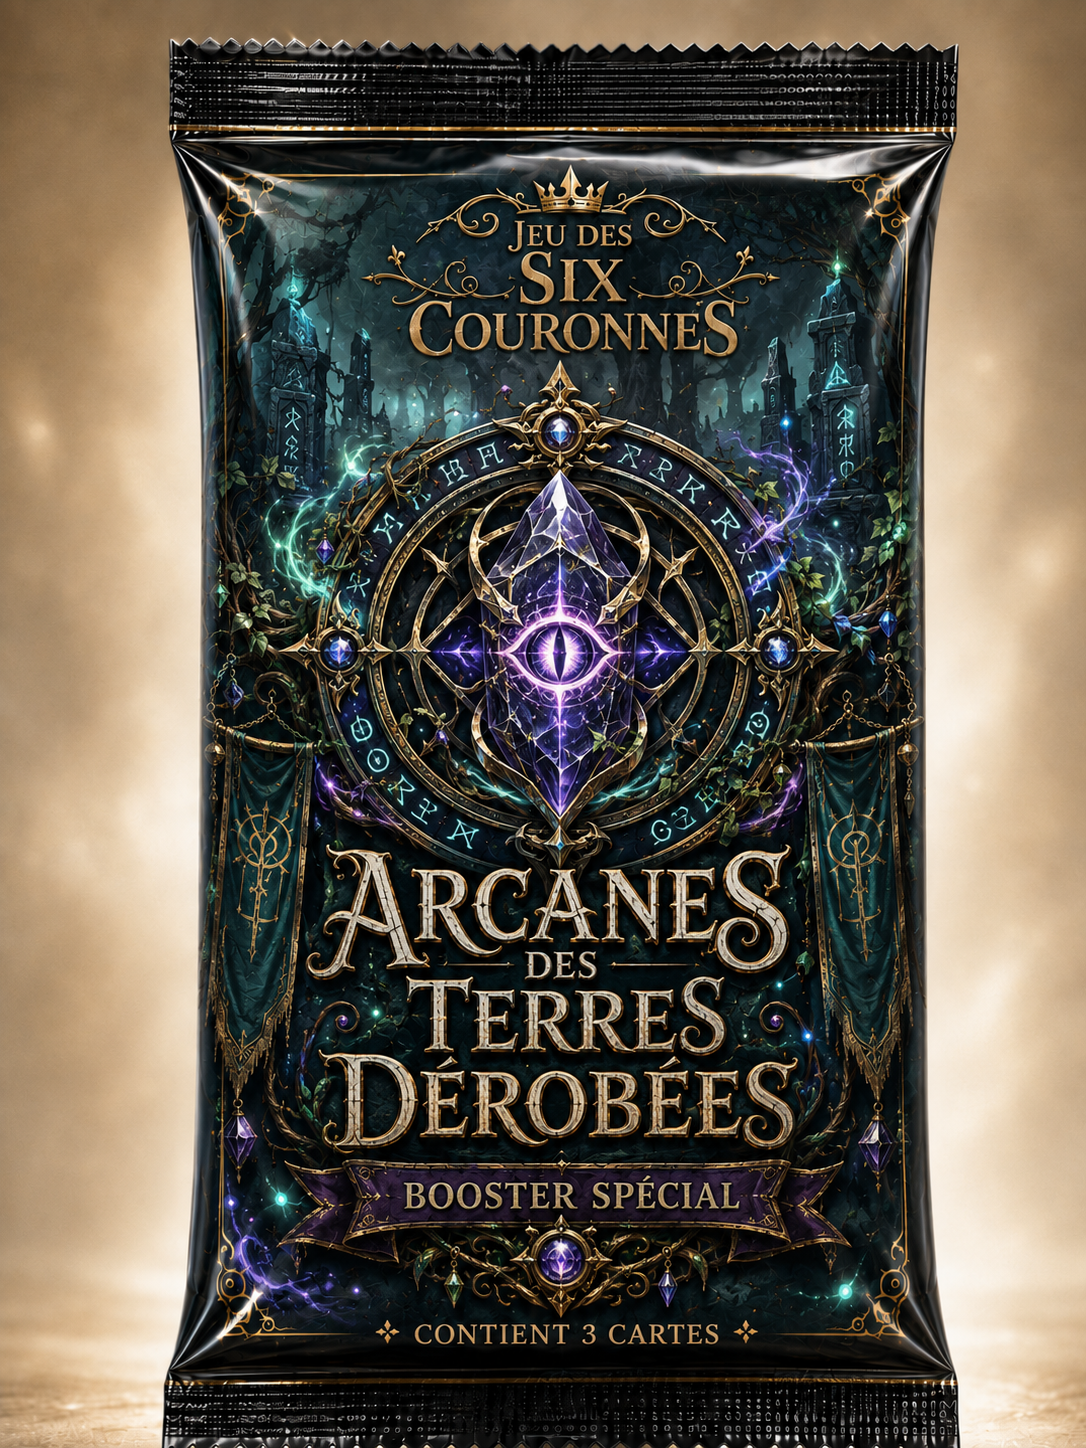
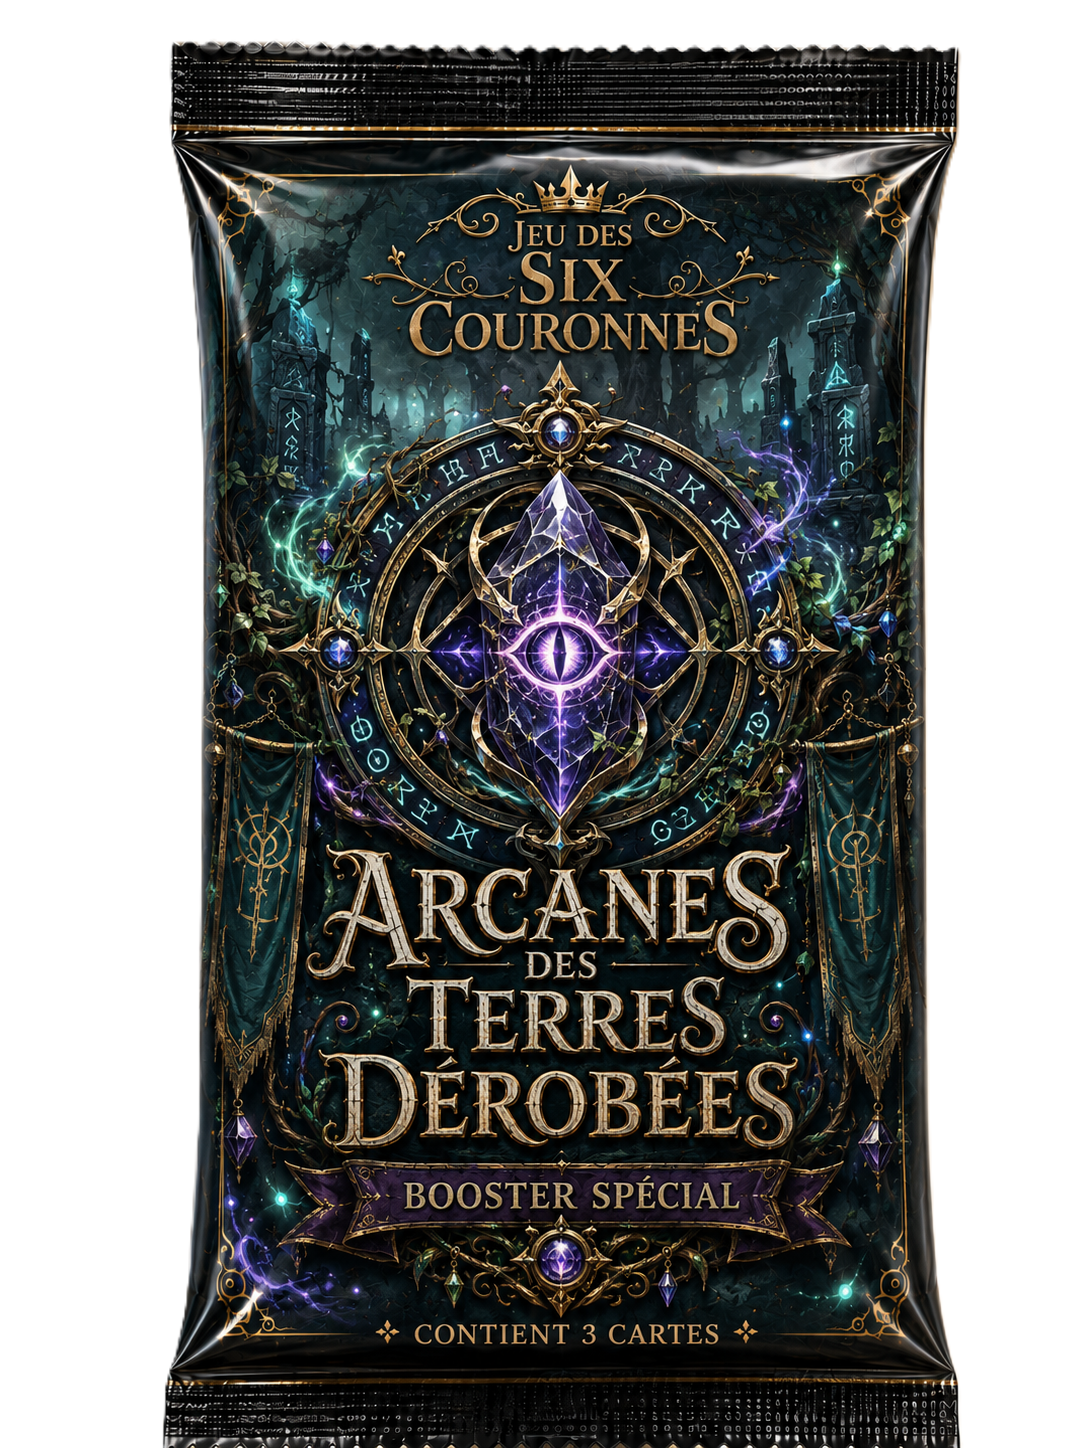
Release v0.9.0

diff --git a/styles/six-crowns.css b/styles/six-crowns.css
@@ -7759,3 +7759,208 @@ body.scg-booster-open {
 /* v0.8.66 — boosters spéciaux et tickets événementiels */
 .scg-ticket-wallet{display:flex;flex-wrap:wrap;gap:.45rem;align-items:center}.scg-booster-credit-badge.is-special{border-color:#9b71d8;background:linear-gradient(135deg,rgba(98,45,143,.35),rgba(20,18,36,.92))}.scg-booster-credit-badge.is-event{border-color:#d98b42;background:linear-gradient(135deg,rgba(153,72,28,.35),rgba(28,19,15,.92))}
 .scg-special-booster-picker{position:fixed;inset:0;z-index:100000;display:grid;place-items:center;padding:2rem;background:radial-gradient(circle at 50% 35%,rgba(53,65,108,.45),rgba(3,5,12,.92));backdrop-filter:blur(9px)}.scg-special-booster-picker>section{width:min(1180px,96vw);max-height:92vh;overflow:auto;padding:1.25rem;border:1px solid rgba(232,199,101,.55);border-radius:18px;background:linear-gradient(145deg,rgba(20,25,43,.98),rgba(9,11,20,.98));box-shadow:0 30px 100px #000;color:#f4ead0}.scg-special-booster-picker header{display:flex;justify-content:space-between;gap:1rem;align-items:flex-start;margin-bottom:1rem}.scg-special-booster-picker header h2{margin:.15rem 0;font-size:2rem}.scg-special-booster-picker header p,.scg-special-booster-picker header small{color:#cfc5ad}.scg-special-booster-picker header button{width:42px;height:42px;border-radius:50%}.scg-special-booster-grid{display:grid;grid-template-columns:repeat(4,minmax(0,1fr));gap:1rem}.scg-special-booster-option{position:relative;display:flex;flex-direction:column;gap:.7rem;padding:.75rem;overflow:hidden;border:1px solid rgba(255,255,255,.18);border-radius:14px;background:rgba(255,255,255,.04);transition:transform .2s ease,box-shadow .2s ease,border-color .2s ease;transform-style:preserve-3d}.scg-special-booster-option::after{content:"";position:absolute;inset:-30%;pointer-events:none;background:linear-gradient(115deg,transparent 38%,rgba(255,255,255,.35) 49%,transparent 60%);transform:translateX(-80%) rotate(8deg);transition:transform .55s ease;mix-blend-mode:screen}.scg-special-booster-option:hover,.scg-special-booster-option:focus-visible{transform:translateY(-10px) scale(1.025) rotateX(2deg);border-color:var(--picker-accent,#e8c765);box-shadow:0 20px 45px rgba(0,0,0,.55),0 0 30px color-mix(in srgb,var(--picker-accent,#e8c765) 35%,transparent)}.scg-special-booster-option:hover::after{transform:translateX(80%) rotate(8deg)}.scg-special-booster-option img{width:100%;aspect-ratio:3/4;object-fit:cover;border-radius:10px;filter:drop-shadow(0 12px 18px rgba(0,0,0,.6));animation:scg-picker-float 3.6s ease-in-out infinite}.scg-special-booster-option span{display:grid;gap:.2rem;text-align:left}.scg-special-booster-option strong{font-size:1rem}.scg-special-booster-option small{color:#cfc5ad}.scg-special-booster-option.is-royal{--picker-accent:#e6c65c}.scg-special-booster-option.is-aldori{--picker-accent:#c77685}.scg-special-booster-option.is-khans{--picker-accent:#bd5e3d}.scg-special-booster-option.is-arcana{--picker-accent:#8d70ff}@keyframes scg-picker-float{0%,100%{transform:translateY(0)}50%{transform:translateY(-5px)}}@media(max-width:900px){.scg-special-booster-grid{grid-template-columns:repeat(2,minmax(0,1fr))}}@media(max-width:560px){.scg-special-booster-grid{grid-template-columns:1fr}.scg-special-booster-picker{padding:.5rem}}
+
+
+/* v0.9.0 — intégration des vrais boosters spéciaux et centrage des révélations */
+.scg-special-booster-picker > section {
+  width: min(1380px, 96vw);
+  max-height: 94vh;
+  overflow: auto;
+  padding: clamp(1.25rem, 2vw, 1.8rem);
+}
+
+.scg-special-booster-picker header {
+  align-items: flex-start;
+  gap: 1.25rem;
+  margin-bottom: 1.35rem;
+}
+
+.scg-special-booster-grid {
+  display: flex;
+  justify-content: center;
+  align-items: stretch;
+  gap: clamp(18px, 2vw, 30px);
+  flex-wrap: wrap;
+  width: 100%;
+}
+
+.scg-special-booster-option {
+  position: relative;
+  flex: 0 1 248px;
+  width: min(248px, 100%);
+  min-width: 220px;
+  max-width: 260px;
+  min-height: 470px;
+  display: grid;
+  grid-template-rows: minmax(0, 1fr) auto;
+  align-items: start;
+  gap: .9rem;
+  padding: 1rem .95rem 1.05rem;
+  overflow: visible;
+  border: 1px solid rgba(255,255,255,.16);
+  border-radius: 22px;
+  background: linear-gradient(180deg, rgba(255,255,255,.06), rgba(8,10,17,.7));
+  box-shadow: inset 0 1px 0 rgba(255,255,255,.06), 0 16px 42px rgba(0,0,0,.38);
+  transform-style: preserve-3d;
+  isolation: isolate;
+}
+
+.scg-special-booster-option::before {
+  content: "";
+  position: absolute;
+  inset: -16px;
+  border-radius: 28px;
+  background: radial-gradient(circle, color-mix(in srgb, var(--picker-accent, #e8c765) 26%, transparent), transparent 64%);
+  opacity: 0;
+  pointer-events: none;
+  transition: opacity .18s ease;
+  z-index: -1;
+}
+
+.scg-special-booster-option::after {
+  inset: -10% -24%;
+  background: linear-gradient(115deg, transparent 34%, rgba(255,255,255,.34) 48%, transparent 62%);
+}
+
+.scg-special-booster-option:hover,
+.scg-special-booster-option:focus-visible {
+  transform: translateY(-12px) scale(1.03) rotateX(3deg) rotateY(-3deg);
+  border-color: color-mix(in srgb, var(--picker-accent, #e8c765) 70%, white);
+  box-shadow: 0 24px 52px rgba(0,0,0,.52), 0 0 32px color-mix(in srgb, var(--picker-accent, #e8c765) 24%, transparent);
+}
+
+.scg-special-booster-option:hover::before,
+.scg-special-booster-option:focus-visible::before {
+  opacity: 1;
+}
+
+.scg-special-booster-art {
+  position: relative;
+  display: flex;
+  align-items: center;
+  justify-content: center;
+  min-height: 350px;
+  padding: .15rem 0;
+}
+
+.scg-special-booster-option img {
+  width: auto;
+  height: auto;
+  max-width: 100%;
+  max-height: 350px;
+  aspect-ratio: auto;
+  object-fit: contain;
+  display: block;
+  background: transparent !important;
+  border-radius: 0;
+  filter: drop-shadow(0 20px 28px rgba(0,0,0,.55));
+  animation: scg-picker-float 3.6s ease-in-out infinite;
+}
+
+.scg-special-booster-meta {
+  display: grid;
+  gap: .28rem;
+  text-align: center;
+  justify-items: center;
+}
+
+.scg-special-booster-option strong {
+  font-size: 1.06rem;
+  line-height: 1.2;
+}
+
+.scg-special-booster-option small {
+  color: #d4cab6;
+  line-height: 1.2;
+}
+
+.scg-booster-results {
+  justify-items: center;
+}
+
+.scg-booster-reveal {
+  width: min(100%, 1080px);
+  margin-inline: auto;
+  justify-content: center;
+}
+
+.scg-booster-reveal.scg-booster-reveal--count-3 {
+  grid-template-columns: repeat(3, minmax(180px, 220px));
+  justify-content: center;
+}
+
+.scg-booster-reveal.scg-booster-reveal--count-5 {
+  grid-template-columns: repeat(5, minmax(0, 1fr));
+}
+
+@media (max-width: 1100px) {
+  .scg-special-booster-option {
+    min-height: 430px;
+  }
+
+  .scg-special-booster-art {
+    min-height: 310px;
+  }
+
+  .scg-special-booster-option img {
+    max-height: 310px;
+  }
+}
+
+@media (max-width: 980px) {
+  .scg-booster-reveal.scg-booster-reveal--count-3 {
+    grid-template-columns: repeat(2, minmax(180px, 220px));
+  }
+}
+
+@media (max-width: 900px) {
+  .scg-special-booster-grid {
+    gap: 18px;
+  }
+
+  .scg-special-booster-option {
+    flex-basis: 220px;
+    min-width: 200px;
+    min-height: 390px;
+  }
+
+  .scg-special-booster-art {
+    min-height: 275px;
+  }
+
+  .scg-special-booster-option img {
+    max-height: 275px;
+  }
+}
+
+@media (max-width: 640px) {
+  .scg-special-booster-picker {
+    padding: .75rem;
+  }
+
+  .scg-special-booster-picker header {
+    flex-direction: column;
+  }
+
+  .scg-special-booster-grid {
+    gap: 14px;
+  }
+
+  .scg-special-booster-option {
+    width: min(280px, 100%);
+    min-width: 0;
+    min-height: 360px;
+  }
+
+  .scg-special-booster-art {
+    min-height: 245px;
+  }
+
+  .scg-special-booster-option img {
+    max-height: 245px;
+  }
+
+  .scg-booster-reveal.scg-booster-reveal--count-3 {
+    grid-template-columns: minmax(180px, 220px);
+  }
+}

diff --git a/scripts/boosters.js b/scripts/boosters.js
@@ -457,7 +457,7 @@ export function showSpecialBoosterSelector() {
   document.querySelector(".scg-special-booster-picker")?.remove();
   const overlay = document.createElement("div");
   overlay.className = "scg-special-booster-picker";
-  overlay.innerHTML = `<section role="dialog" aria-modal="true" aria-label="Choisir un booster spécial"><header><div><small>Ticket spécial</small><h2>Choisissez votre booster</h2><p>Chaque paquet contient 3 cartes exclusivement issues de son thème.</p></div><button type="button" data-action="close-special-picker" aria-label="Fermer"><i class="fa-solid fa-xmark"></i></button></header><div class="scg-special-booster-grid">${Object.values(SPECIAL_BOOSTERS).map((entry) => `<button type="button" class="scg-special-booster-option is-${entry.accent}" data-faction="${escapeHtml(entry.id)}"><img src="${escapeHtml(entry.image)}" alt="Booster ${escapeHtml(entry.label)}"><span><strong>${escapeHtml(entry.label)}</strong><small>3 cartes thématiques garanties</small></span></button>`).join("")}</div></section>`;
+  overlay.innerHTML = `<section role="dialog" aria-modal="true" aria-label="Choisir un booster spécial"><header><div><small>Ticket spécial</small><h2>Choisissez votre booster</h2><p>Chaque paquet contient 3 cartes exclusivement issues de son thème.</p></div><button type="button" data-action="close-special-picker" aria-label="Fermer"><i class="fa-solid fa-xmark"></i></button></header><div class="scg-special-booster-grid">${Object.values(SPECIAL_BOOSTERS).map((entry) => `<button type="button" class="scg-special-booster-option is-${entry.accent}" data-faction="${escapeHtml(entry.id)}"><span class="scg-special-booster-art" aria-hidden="true"><img src="${escapeHtml(entry.image)}" alt="Booster ${escapeHtml(entry.label)}"></span><span class="scg-special-booster-meta"><strong>${escapeHtml(entry.label)}</strong><small>3 cartes thématiques garanties</small></span></button>`).join("")}</div></section>`;
   const close = () => overlay.remove();
   overlay.addEventListener("click", (event) => { if (event.target === overlay) close(); });
   overlay.querySelector("[data-action='close-special-picker']")?.addEventListener("click", close);
@@ -584,7 +584,7 @@ function animateBooster(cards, { onClose = null, packIndex = 1, totalPacks = 1, 
           <p class="scg-booster-progress" data-reveal-status>La magie se rassemble…</p>
         </div>
       </header>
-      <div class="scg-booster-reveal">
+      <div class="scg-booster-reveal scg-booster-reveal--count-${orderedCards.length}">
         ${orderedCards.map((card, index) => boosterRevealCardMarkup(card, index, { featured: card.rarity === "unique" })).join("")}
       </div>
     </section>

diff --git a/README.md b/README.md
@@ -2,7 +2,7 @@
 
 Module Foundry VTT d’un jeu de cartes tactique inspiré des Terres Dérobées.
 
-## Règles du prototype 0.8.65
+## Règles du prototype 0.9.0
 
 Chaque joueur choisit un deck de démonstration d’exactement 20 cartes, un deck personnalisé enregistré sur son profil, ou sélectionne **Deck aléatoire**. Les decks de démonstration sont indépendants des collections personnelles et servent uniquement à tester le jeu. Dix cartes sont distribuées au début de la partie, puis chaque camp peut remplacer jusqu’à deux cartes une seule fois.
 
@@ -46,7 +46,7 @@ Le catalogue comprend désormais **160 cartes**, réparties en **quatre collecti
 
 Cette répartition du catalogue découle de la règle imposant une rareté minimale **Rare** à tous les personnages nommés. Les probabilités d’ouverture des boosters restent indépendantes de cette répartition.
 
-## Nouveautés de la v0.8.65
+## Nouveautés de la v0.9.0
 
 - suppression du second accès redondant à l’analyse du deck : le bouton reste uniquement dans l’en-tête, en haut à droite ;
 - conservation de la position de défilement de la mosaïque et du panneau latéral lors de l’ajout ou du retrait d’une carte ;

diff --git a/CHANGELOG.md b/CHANGELOG.md
@@ -1,4 +1,11 @@
-# Journal des versions
+# Changelog
+
+## 0.9.0
+- Intégration des boosters spéciaux définitifs en PNG transparent pour la sélection Foundry.
+- Agrandissement de la fenêtre de choix des boosters spéciaux avec meilleurs halos, reflets et animations visibles.
+- Centrage des cartes révélées pour les boosters à 3 cartes (spéciaux et événementiels).
+- Harmonisation de la version du module, du package et du lockfile en 0.9.0.
+
 
 ## 0.8.65
 

diff --git a/RELEASE_0.9.0.md b/RELEASE_0.9.0.md
@@ -1,0 +1,7 @@
+# Version 0.9.0
+
+## Principales améliorations
+- Remplacement des quatre visuels de boosters spéciaux par les versions PNG transparentes intégrées au module.
+- Refonte de l’interface de sélection des boosters spéciaux : paquets plus grands, grille plus lisible, effets de survol et halos visibles.
+- Centrage de la révélation des cartes lorsque le booster ouvert contient 3 cartes.
+- Mise à jour de version du module vers 0.9.0.
